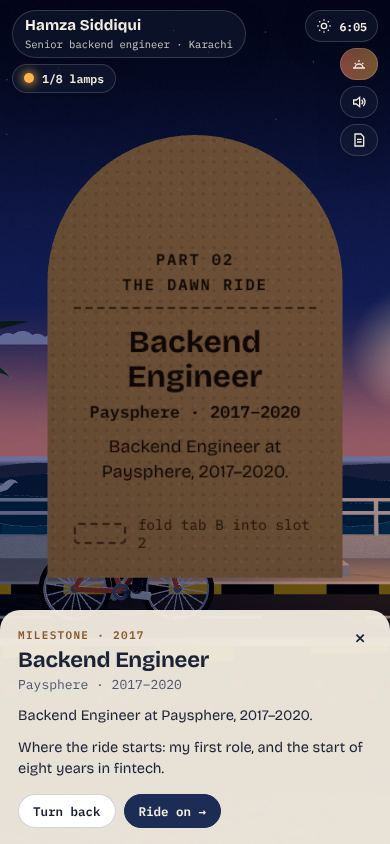
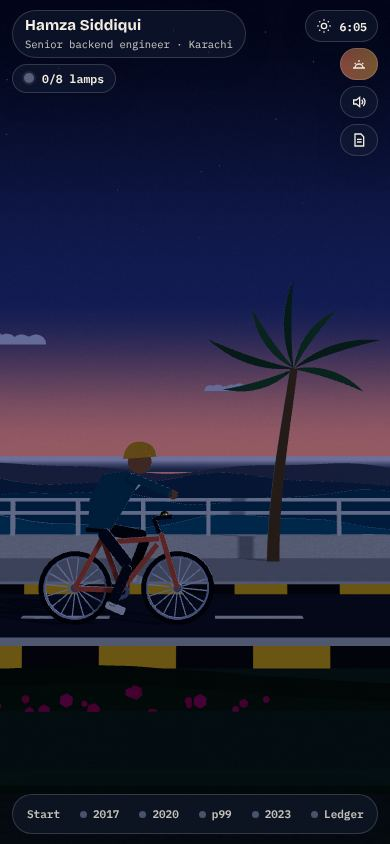
Eval progress: status update

diff --git a/eval-workspace/PROGRESS.md b/eval-workspace/PROGRESS.md
@@ -7,8 +7,8 @@ Iteration 1, started 2026-11-01. Builds use the light verification rules (`execu
 | fintech-backend-engineer (x3 runs) | run-1 finishing; runs 2-3 queued | done (~10 min) |
 | fresh-grad-thin-content | finishing | done (~6 min) |
 | pastry-chef-photographer | finishing | done (~28 min) |
-| architect-avoids-room-default | running | queued |
-| sound-designer | queued | queued |
+| architect-avoids-room-default | running | running |
+| sound-designer | running | running |
 | pm-recruiter-scannable | done (17/18 self-score, flicker 0.0021%, ~116 min) | done (~3.5 min) |
 | two-people-same-chat | queued | n/a |
 | clone-reference-site | queued | n/a |
